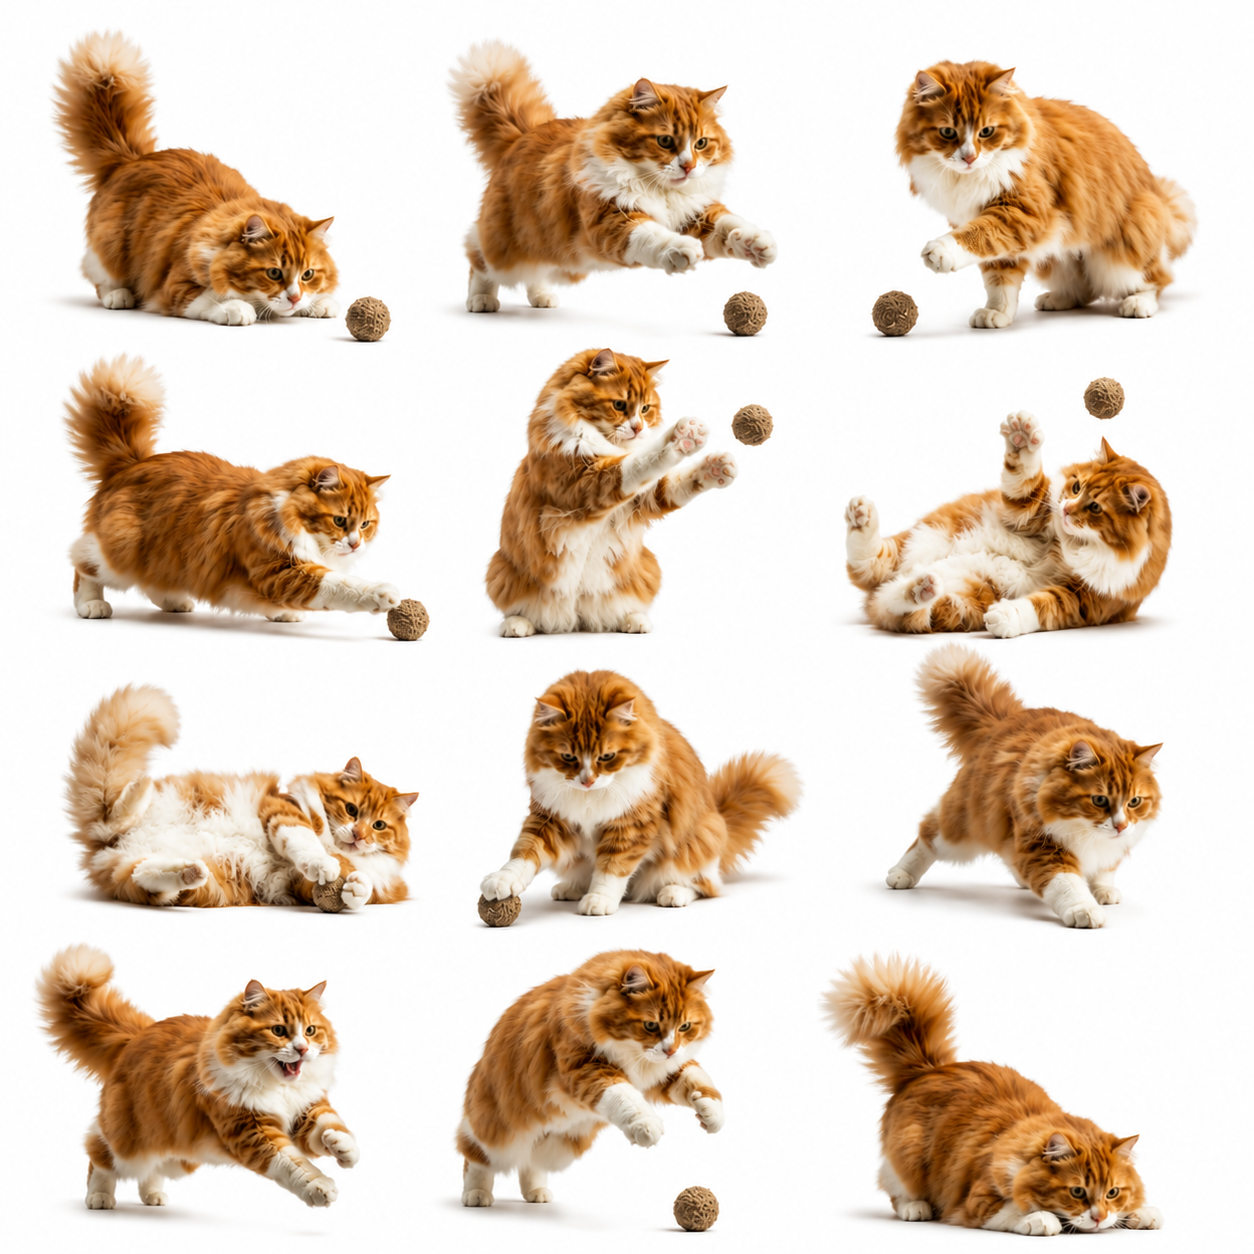
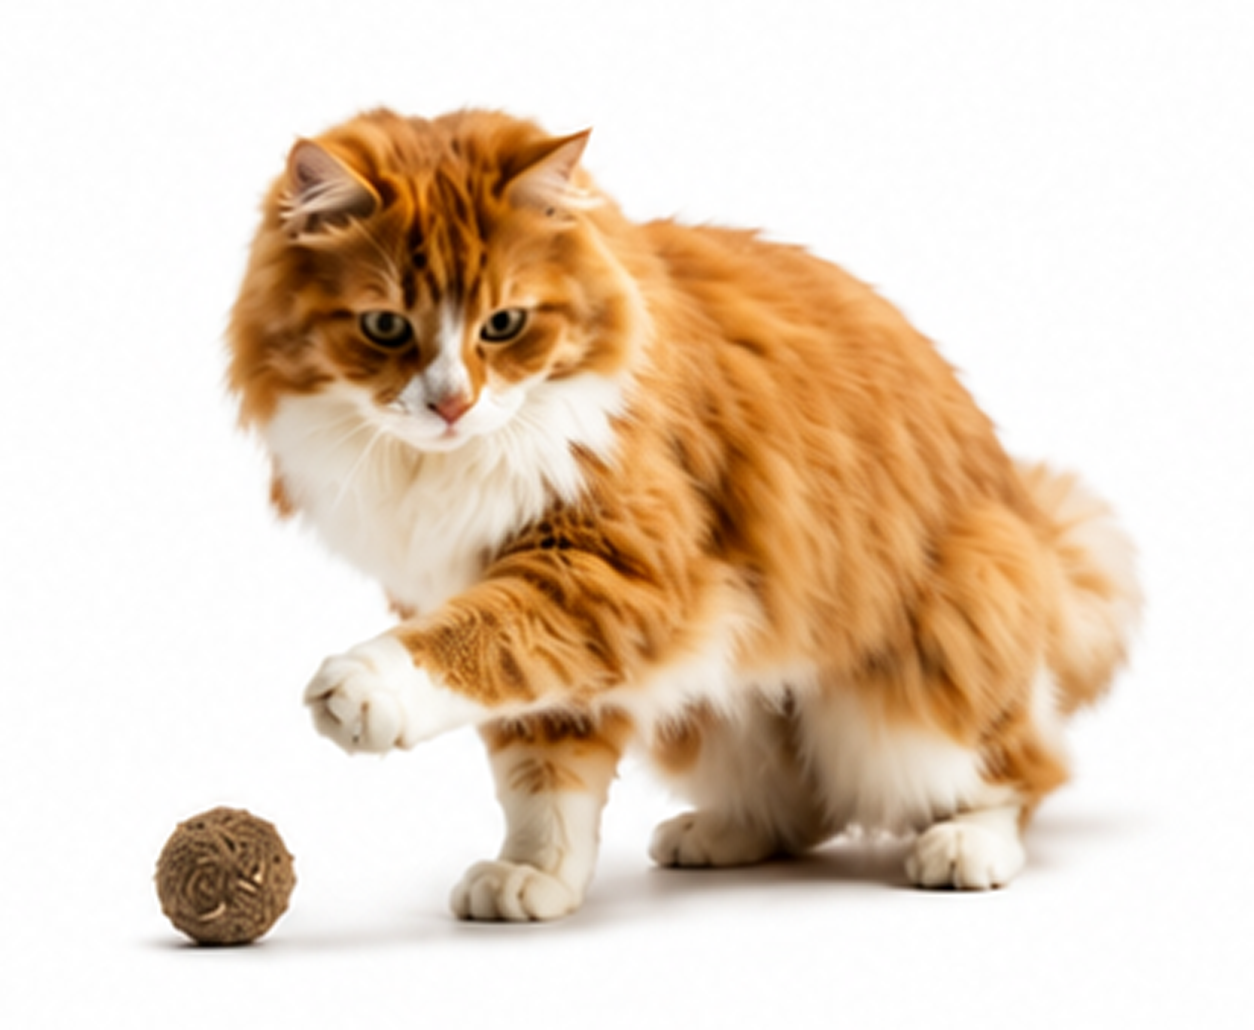
feat: 增加猫咪玩耍动作与变体，修复多端拖拽及右键失焦问题

diff --git a/src/main.js b/src/main.js
@@ -17,14 +17,18 @@ const GRID_COLS = 3;
 const GRID_ROWS = 4;
 
 const STATES = {
-  eat:   { src: '/assets/cat_eat.webp', type: 'webp',   label: '吃饭中~' },
-  sleep: { src: '/assets/cat_sleep.png', type: 'sprite', frames: 12, label: 'Zzz...' },
+  eat: { src: '/assets/cat_eat.png', frames: 12, label: '吃饭中~' },
+  sleep: { src: '/assets/cat_sleep.png', frames: 12, label: 'Zzz...' },
+  play: { src: '/assets/cat_play.png', frames: 1, label: '玩耍中~', single: true },
+  play2: { src: '/assets/cat_play2.png', frames: 1, label: '玩耍中~', single: true },
 };
 
 // Random messages for each state
 const MESSAGES = {
   eat: ['好吃！', '嗷呜嗷呜~', '还想再来一碗！', '🐟🐟🐟', '吃饱了~', '这个罐头不错！'],
   sleep: ['Zzz...', '做了个好梦...', '别吵...', '(˘ω˘)', '五分钟后叫我...'],
+  play: ['看我抓蝴蝶！', '冲呀~', '毛线球真好玩！', '扑击！', '喵喵拳！', '精力充沛喵！'],
+  play2: ['看我抓蝴蝶！', '冲呀~', '毛线球真好玩！', '扑击！', '喵喵拳！', '精力充沛喵！'],
   pet: ['好舒服喵~', '嘿嘿~', '还要还要！', '❤️', '呼噜呼噜~', '喵呜~'],
 };
 
@@ -32,7 +36,7 @@ const MESSAGES = {
 // State
 // ============================================================
 
-let currentState = '';
+let currentState = 'eat';
 let currentFrame = 0;
 let lastFrameTime = 0;
 
@@ -48,7 +52,6 @@ const canvas = document.getElementById('pet-canvas');
 const ctx = canvas.getContext('2d');
 
 // UI elements
-const petWebp = document.getElementById('pet-webp');
 const contextMenu = document.getElementById('context-menu');
 const statusBubble = document.getElementById('status-bubble');
 const statusText = document.getElementById('status-text');
@@ -59,16 +62,6 @@ const statusText = document.getElementById('status-text');
 
 function loadAllSprites() {
   for (const [state, config] of Object.entries(STATES)) {
-    if (config.type === 'webp') {
-      spritesLoaded++;
-      console.log(`✅ Configured WebP for ${state}`);
-      if (spritesLoaded === totalSprites) {
-        setState('eat');
-        requestAnimationFrame(gameLoop);
-      }
-      continue;
-    }
-
     const img = new Image();
     img.onload = () => {
       // Process image to remove pure white background via flood-fill
@@ -85,42 +78,41 @@ function loadAllSprites() {
 
       // Check if pixel is near-white background
       function isBg(idx) {
-        return data[idx] > 235 && data[idx+1] > 235 && data[idx+2] > 235 && data[idx+3] > 0;
+        return data[idx] > 235 && data[idx + 1] > 235 && data[idx + 2] > 235 && data[idx + 3] > 0;
       }
 
       // Flood fill from all edges
       const stack = [];
       const visited = new Uint8Array(width * height);
-      for(let x=0; x<width; x++) { stack.push([x, 0]); stack.push([x, height-1]); }
-      for(let y=0; y<height; y++) { stack.push([0, y]); stack.push([width-1, y]); }
+      for (let x = 0; x < width; x++) { stack.push([x, 0]); stack.push([x, height - 1]); }
+      for (let y = 0; y < height; y++) { stack.push([0, y]); stack.push([width - 1, y]); }
 
-      while(stack.length > 0) {
+      while (stack.length > 0) {
         const [x, y] = stack.pop();
         const i = y * width + x;
-        if(visited[i]) continue;
+        if (visited[i]) continue;
         visited[i] = 1;
 
         const pIdx = i * 4;
-        if(isBg(pIdx)) {
+        if (isBg(pIdx)) {
           data[pIdx + 3] = 0; // Set transparent
-          
-          if(x > 0) stack.push([x - 1, y]);
-          if(x < width - 1) stack.push([x + 1, y]);
-          if(y > 0) stack.push([x, y - 1]);
-          if(y < height - 1) stack.push([x, y + 1]);
+
+          if (x > 0) stack.push([x - 1, y]);
+          if (x < width - 1) stack.push([x + 1, y]);
+          if (y > 0) stack.push([x, y - 1]);
+          if (y < height - 1) stack.push([x, y + 1]);
         }
       }
       offCtx.putImageData(imgData, 0, 0);
 
       spriteSheets[state] = {
         img: offCanvas,
-        frameWidth: img.width / GRID_COLS,
-        frameHeight: img.height / GRID_ROWS,
+        frameWidth: config.single ? img.width : img.width / GRID_COLS,
+        frameHeight: config.single ? img.height : img.height / GRID_ROWS,
       };
       spritesLoaded++;
       console.log(`✅ Loaded ${state}`);
       if (spritesLoaded === totalSprites) {
-        setState('eat');
         requestAnimationFrame(gameLoop);
       }
     };
@@ -128,7 +120,6 @@ function loadAllSprites() {
       console.error(`Failed to load sprite for ${state}`, e);
       spritesLoaded++;
       if (spritesLoaded === totalSprites) {
-        setState('eat');
         requestAnimationFrame(gameLoop);
       }
     };
@@ -150,14 +141,6 @@ function getFrameCoords(frameIndex) {
 function drawFrame(timestamp) {
   ctx.clearRect(0, 0, CANVAS_SIZE, CANVAS_SIZE);
 
-  const stateConfig = STATES[currentState];
-  if (!stateConfig) return;
-
-  if (stateConfig.type === 'webp') {
-    // 渲染独立 WebP 动图时无需绘制 Canvas 本体
-    return;
-  }
-
   const sheet = spriteSheets[currentState];
   if (!sheet) {
     drawFallbackPet(timestamp);
@@ -166,6 +149,7 @@ function drawFrame(timestamp) {
 
   // OPTION 2: 极致丝滑的高端 Live2D 呼吸流方案
   // 固定提取单张画质最完美、无重绘抖动的本体插画（第 0 帧）
+  // play 状态为单张整图，始终取第 0 帧
   const staticFrameIndex = 0;
   const { col, row } = getFrameCoords(staticFrameIndex);
   const sx = col * sheet.frameWidth;
@@ -205,7 +189,7 @@ function drawFrame(timestamp) {
   const offsetY = shadowY - dh + 6;
 
   ctx.save();
-  
+
   // Add a soft white glow so dark outlines and ZZZs stand out beautifully
   ctx.shadowColor = 'rgba(255, 255, 255, 0.8)';
   ctx.shadowBlur = 8;
@@ -227,6 +211,12 @@ function drawFrame(timestamp) {
     const munchY = 1 + Math.abs(Math.sin(timestamp / 120)) * 0.012; // 垂直微弹
     ctx.rotate(tilt);
     ctx.scale(1, munchY);
+  } else if (currentState === 'play' || currentState === 'play2') {
+    // 活泼可爱的玩耍左右摆动与扑击弹跳节奏
+    const playTilt = Math.sin(timestamp / 400) * 0.025; // 放慢摇摆周期，幅度稍减
+    const pounceY = 1 + Math.abs(Math.sin(timestamp / 350)) * 0.015; // 放慢弹跳节奏
+    ctx.rotate(playTilt);
+    ctx.scale(1, pounceY);
   }
 
   // 绘制单张高清图片（相对于新的基准原点）
@@ -235,7 +225,7 @@ function drawFrame(timestamp) {
     actualSx, actualSy, sw, sh,
     -dw / 2, -dh, dw, dh
   );
-  
+
   ctx.restore();
 
   // 睡觉状态下，额外生成优雅的高清动态 Zzz 粒子气泡飘动效果
@@ -246,15 +236,15 @@ function drawFrame(timestamp) {
     ctx.shadowBlur = 4;
     const loopDuration = 3500;
     const phase = (timestamp % loopDuration) / loopDuration;
-    
+
     for (let i = 0; i < 3; i++) {
       const pPhase = (phase + i * 0.33) % 1;
       const alpha = Math.sin(pPhase * Math.PI); // 淡入淡出
       ctx.globalAlpha = alpha * 0.7;
-      
+
       const zx = offsetX + dw * 0.6 + Math.sin(pPhase * Math.PI * 2) * 6 + i * 4;
       const zy = offsetY + dh * 0.45 - pPhase * 40;
-      
+
       ctx.font = i === 2 ? 'bold 15px sans-serif' : 'bold 11px sans-serif';
       ctx.fillText(i === 2 ? 'Z' : 'z', zx, zy);
     }
@@ -394,20 +384,12 @@ function gameLoop(timestamp) {
 // ============================================================
 
 function setState(newState) {
+  // play 状态统一走当前变体
+  if (newState === 'play') newState = currentPlayVariant;
   if (currentState === newState) return;
   currentState = newState;
   currentFrame = 0;
   lastFrameTime = 0;
-
-  const stateConfig = STATES[newState];
-  if (stateConfig && stateConfig.type === 'webp') {
-    petWebp.src = stateConfig.src;
-    petWebp.classList.remove('hidden');
-  } else {
-    petWebp.classList.add('hidden');
-    petWebp.src = '';
-  }
-
   showRandomMessage(newState);
 }
 
@@ -420,6 +402,61 @@ function showRandomMessage(state) {
 
 
 // ============================================================
+// Time-based State
+// ============================================================
+
+function getStateByTime() {
+  const hour = new Date().getHours();
+  if (hour >= 0 && hour < 7) return 'sleep';           // 深夜/凌晨 睡觉
+  if (hour >= 7 && hour < 9) return 'eat';             // 早饭时间
+  if (hour >= 9 && hour < 12) return 'play';           // 上午 玩耍
+  if (hour >= 12 && hour < 13) return 'eat';           // 午饭时间
+  if (hour >= 13 && hour < 18) return 'play';          // 下午 玩耍
+  if (hour >= 18 && hour < 19) return 'eat';           // 晚饭时间
+  if (hour >= 19 && hour < 22) return 'play';          // 晚上 玩耍
+  return 'sleep';                                       // 22点后 准备睡觉
+}
+
+function startTimeBasedBehavior() {
+  // 立即按当前时间设置状态
+  setState(getStateByTime());
+
+  // 每分钟检查一次时间，到整点时切换
+  setInterval(() => {
+    const now = new Date();
+    if (now.getMinutes() === 0) {
+      const timeState = getStateByTime();
+      // play/play2 都属于 play 类，不要覆盖轮换状态
+      const currentIsPlay = currentState === 'play' || currentState === 'play2';
+      const targetIsPlay = timeState === 'play';
+      if (!(currentIsPlay && targetIsPlay) && timeState !== currentState) {
+        setState(timeState);
+      }
+    }
+  }, 60 * 1000);
+}
+
+
+
+// ============================================================
+// Play variant rotation (every 10 minutes)
+// ============================================================
+
+// 当前 play 变体：'play' 或 'play2'
+let currentPlayVariant = 'play';
+
+function startPlayRotation() {
+  setInterval(() => {
+    // 切换变体
+    currentPlayVariant = currentPlayVariant === 'play' ? 'play2' : 'play';
+    // 如果当前正在 play 状态，立即切换到新变体
+    if (currentState === 'play' || currentState === 'play2') {
+      currentState = currentPlayVariant;
+    }
+  }, 30 * 1000); // 30 秒轮换一次
+}
+
+// ============================================================
 // Auto Behavior
 // ============================================================
 
@@ -430,12 +467,17 @@ function startAutoActions() {
 function scheduleNextAction() {
   const delay = 15000 + Math.random() * 30000;
   autoActionTimer = setTimeout(() => {
-    const actions = ['eat', 'sleep'];
-    // Filter out current state so it actually changes
-    const availableActions = actions.filter(a => a !== currentState);
-    const randomAction = availableActions[Math.floor(Math.random() * availableActions.length)];
-    setState(randomAction);
-
+    const hour = new Date().getHours();
+    if (hour >= 0 && hour < 7 || hour >= 22) {
+      setState('sleep');
+    } else {
+      // play/play2 视为同一类，随机时不重复切换同类
+      const currentBase = (currentState === 'play' || currentState === 'play2') ? 'play' : currentState;
+      const actions = ['eat', 'sleep', 'play'];
+      const availableActions = actions.filter(a => a !== currentBase);
+      const randomAction = availableActions[Math.floor(Math.random() * availableActions.length)];
+      setState(randomAction);
+    }
     scheduleNextAction();
   }, delay);
 }
@@ -475,6 +517,9 @@ document.querySelectorAll('.menu-item').forEach(item => {
         break;
       case 'sleep':
         setState('sleep');
+        break;
+      case 'play':
+        setState('play');
         break;
       case 'pet':
         doPetting();
@@ -565,34 +610,33 @@ document.addEventListener('click', (e) => {
   }
 });
 
-// ============================================================
-// Cursor pass-through for transparent areas
-// ============================================================
-
-document.addEventListener('mousemove', async (e) => {
-  const cx = CANVAS_SIZE / 2;
-  const cy = CANVAS_SIZE / 2 - 10;
-  const dist = Math.sqrt((e.clientX - cx) ** 2 + (e.clientY - cy) ** 2);
-
-  const isOverPet = dist < 85;
-
-  if (!contextMenu.classList.contains('hidden')) return;
-
-  try {
-    await invoke('set_ignore_cursor', { ignore: !isOverPet });
-  } catch (err) {
-    // Ignore errors during rapid movement
-  }
+// 当窗口失去焦点（切换到其他页面或应用）时自动隐藏右键菜单
+window.addEventListener('blur', () => {
+  hideContextMenu();
 });
 
 // ============================================================
 // Initialization
 // ============================================================
 
-window.addEventListener('DOMContentLoaded', () => {
+window.addEventListener('DOMContentLoaded', async () => {
   console.log('🐱 Desktop Pet initializing... (Codex style fat orange cat!)');
   loadAllSprites();
+  startTimeBasedBehavior();
+  startPlayRotation();
   startAutoActions();
+
+  // 显式初始化透明窗口接收鼠标事件状态，确保 macOS 和 Windows 均可正常响应点击和拖拽。
+  // 彻底移除高频 mousemove 动态修改 ignore 状态的逻辑，避免在按住拖拽时底层窗口属性被不断重置中断。
+  try {
+    await invoke('set_ignore_cursor', { ignore: false });
+    // 同时监听原生窗口级别的焦点状态变化，确保跨平台绝对可靠
+    getCurrentWindow().onFocusChanged(({ payload: focused }) => {
+      if (!focused) hideContextMenu();
+    });
+  } catch (e) {
+    console.error('Init cursor error:', e);
+  }
 
   setTimeout(() => {
     showBubble('你好呀~ 我是你的桌宠喵！🐱', 4000);

diff --git a/src/index.html b/src/index.html
@@ -15,6 +15,7 @@
       <div class="menu-header">🐱 桌宠菜单</div>
       <div class="menu-item" data-action="eat">🍗 吃饭</div>
       <div class="menu-item" data-action="sleep">😴 睡觉</div>
+      <div class="menu-item" data-action="play">⚽ 玩耍</div>
       <div class="menu-divider"></div>
       <div class="menu-item" data-action="pet">💖 摸摸头</div>
       <div class="menu-divider"></div>